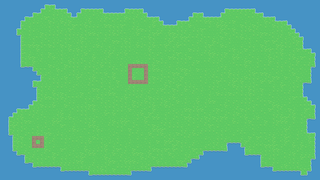
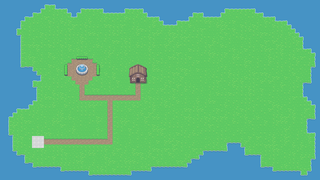
update map

Changed region(s): [[0.0938, 0.3056, 0.4688, 0.8333]]

diff --git a/src/world.py b/src/world.py
@@ -106,11 +106,12 @@ class World():
                         else:
                             self.matrix[row_index][col_index] = 1
                         if style =='entity':
-                            if tile_id == 50 :
+                            #TODO : automatiser tile_id dans Tiled
+                            if tile_id == 82 :
                                 player_spawn.append([x, y])
-                            if tile_id == 48 :
+                            if tile_id == 80 :
                                 self.mob_spawn.append([x, y])
-                            if tile_id == 49 :
+                            if tile_id == 81 :
                                 house_spawn.append([x, y])
         # TODO faire une fonction pour chech if empty
         if len(player_spawn) == 0 :

diff --git a/src/toolbox/import_world.py b/src/toolbox/import_world.py
@@ -4,7 +4,8 @@ def get_info_map(map_name):
     tmxdata = pytmx.TiledMap("assets\\map\\tmx\\"+map_name+".tmx")
     layout = {
             "boundary" : tmxdata.get_layer_by_name("collision").data,
-            "entity" : tmxdata.get_layer_by_name("entity").data
+            "entity" : tmxdata.get_layer_by_name("entity").data,
+            "object" : tmxdata.get_layer_by_name("object").data
             }
     return layout
 
